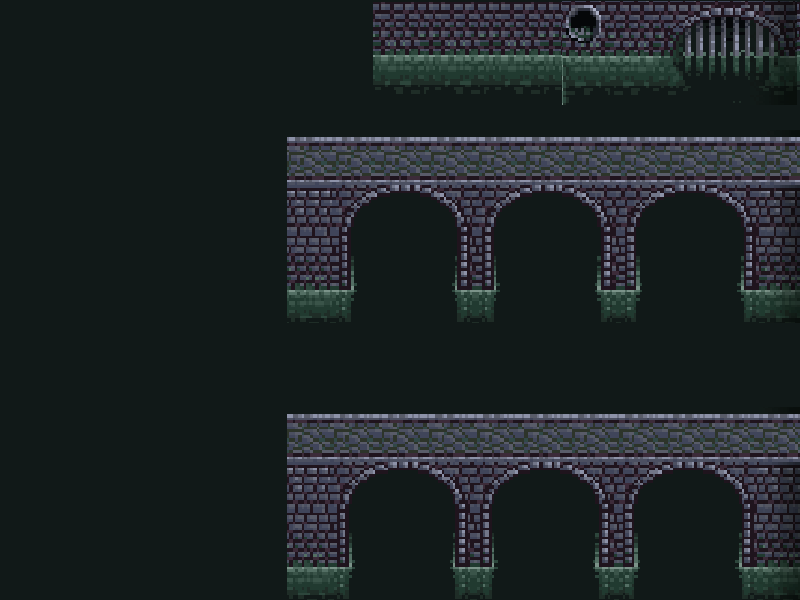
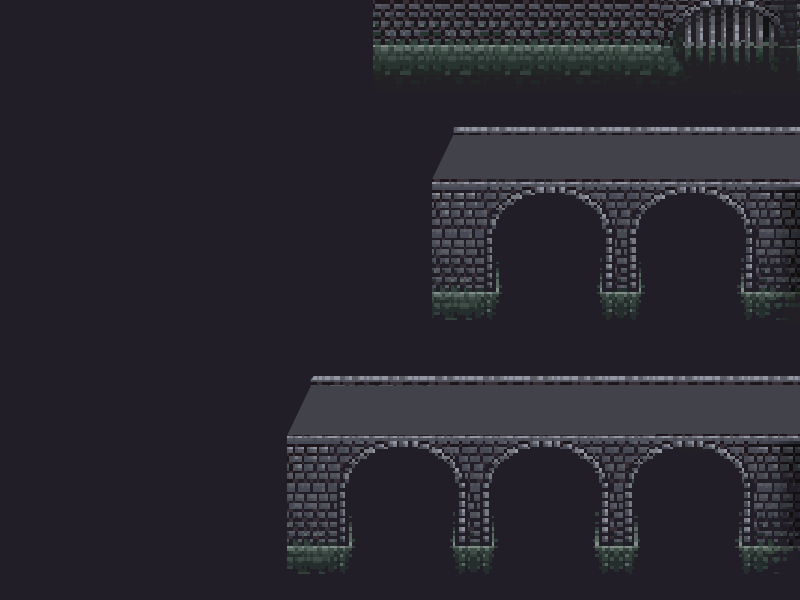
zoom out in ballygamwest.

Changed region(s): [[0.3438, 0.6, 1.0, 1.0], [0.3438, 0.21, 1.0, 0.54], [0.4688, 0.0, 1.0, 0.18]]

diff --git a/src/components/BallyGamBoy/BallyGamWest.js b/src/components/BallyGamBoy/BallyGamWest.js
@@ -202,23 +202,23 @@ useEffect(() => {
 
 
     const mapLayout = [
-      ['a','a','a','a','a','a','a','a','a','a',' ',' ',' ',' ',' ',' ',' ',' ',' ',' ','x','x','a','a','a'],
-      ['a',' ',' ',' ',' ',' ',' ',' ',' ','a',' ',' ',' ',' ',' ',' ',' ',' ',' ',' ',' ',' ','a',' ','a'],
-      ['a',' ',' ',' ',' ',' ',' ',' ',' ','a',' ',' ',' ','a','a','a',' ',' ',' ',' ',' ',' ','a',' ','a'],
-      ['a','a','a','a','a','a',' ',' ',' ','a',' ',' ',' ','a','a','a','a','a','a','a','t','a',' ',' ','a'],
-      ['x',' ',' ',' ',' ','a',' ',' ',' ','a','a','a',' ','a',' ',' ',' ',' ',' ','a',' ','a',' ',' ','a'],
-      ['x',' ',' ',' ',' ','a',' ',' ',' ',' ',' ','a',' ','a','a','a','a',' ',' ','a',' ','a',' ',' ','a'],
-      ['a','a','a','a',' ','a',' ',' ',' ',' ',' ','a',' ','a',' ',' ',' ','a',' ','a',' ','a',' ',' ','a'],
-      ['a',' ',' ','a',' ','a',' ',' ','a','a','a','a',' ','a',' ',' ',' ','a','a','a',' ','a',' ',' ','a'],
-      ['a',' ',' ','a',' ','a',' ','a',' ',' ',' ',' ',' ','a',' ',' ',' ',' ',' ',' ',' ','a',' ',' ','a'],
-      ['a',' ',' ','a',' ','a','a','a',' ',' ',' ',' ',' ','a',' ',' ',' ',' ',' ',' ',' ','a',' ',' ','a'],
-      ['a',' ',' ','a',' ',' ',' ','a','a','a','a','a','a','a',' ',' ',' ','a','a','a','a','a',' ',' ','a'],
-      ['a','a','a','a',' ',' ',' ',' ','a','a','j','a','a','a',' ',' ',' ','a',' ',' ',' ',' ',' ',' ','a'],
-      ['x',' ',' ',' ',' ',' ',' ',' ',' ',' ',' ',' ',' ',' ',' ',' ',' ','a',' ',' ',' ',' ',' ',' ','a'],
-      ['x',' ',' ',' ',' ',' ',' ',' ',' ',' ',' ',' ',' ',' ',' ',' ',' ','a',' ',' ',' ',' ',' ',' ','a'],
-      ['a','a','a',' ',' ',' ',' ',' ',' ','g','g','g','g','g','g',' ',' ','a',' ',' ',' ',' ',' ',' ','a'],
-      ['a',' ','a','a','a','a','a','a','d',' ',' ',' ',' ','g','g',' ',' ','a','a','a','a','a','a','a','a'],
-      ['a',' ',' ',' ',' ',' ',' ',' ','d',' ',' ',' ',' ','g',' ',' ',' ',' ','k','e',' ',' ',' ',' ','x'],
+      ['a',' ',' ',' ',' ',' ',' ',' ',' ',' ',' ',' ',' ',' ',' ',' ',' ',' ',' ',' ',' ',' ',' ',' ',' '],
+      ['a',' ',' ',' ',' ',' ',' ',' ',' ',' ',' ',' ',' ',' ',' ',' ',' ',' ',' ',' ',' ',' ',' ',' ',' '],
+      ['a',' ',' ',' ',' ',' ',' ',' ',' ',' ',' ',' ',' ',' ',' ',' ',' ',' ',' ',' ',' ',' ',' ',' ',' '],
+      ['a',' ',' ',' ',' ',' ',' ',' ',' ',' ',' ',' ',' ',' ',' ',' ',' ',' ',' ',' ',' ',' ',' ',' ',' '],
+      ['x',' ',' ',' ',' ',' ',' ',' ',' ',' ',' ',' ',' ',' ',' ',' ',' ',' ',' ',' ',' ',' ',' ',' ',' '],
+      ['x',' ',' ',' ',' ',' ',' ',' ',' ',' ',' ',' ',' ',' ',' ',' ',' ',' ',' ',' ',' ',' ',' ',' ',' '],
+      ['a',' ',' ',' ',' ',' ',' ',' ',' ',' ',' ',' ',' ',' ',' ',' ',' ',' ',' ',' ',' ',' ',' ',' ',' '],
+      ['a',' ',' ',' ',' ',' ',' ',' ',' ',' ',' ',' ',' ',' ',' ',' ',' ',' ',' ',' ',' ',' ',' ',' ',' '],
+      ['a',' ',' ',' ',' ',' ',' ',' ',' ',' ',' ',' ',' ',' ',' ',' ',' ',' ',' ',' ',' ',' ',' ',' ',' '],
+      ['a',' ',' ',' ',' ',' ',' ',' ',' ',' ',' ',' ',' ',' ',' ',' ',' ',' ',' ',' ',' ',' ',' ',' ',' '],
+      ['a',' ',' ',' ',' ',' ',' ',' ',' ',' ',' ',' ',' ',' ',' ',' ',' ',' ',' ',' ',' ',' ',' ',' ',' '],
+      ['a',' ',' ',' ',' ',' ',' ',' ',' ',' ',' ',' ',' ',' ',' ',' ',' ',' ',' ',' ',' ',' ',' ',' ',' '],
+      ['x',' ',' ',' ',' ',' ',' ',' ',' ',' ',' ',' ',' ',' ',' ',' ',' ',' ',' ',' ',' ',' ',' ',' ',' '],
+      ['x',' ',' ',' ',' ',' ',' ',' ',' ',' ',' ',' ',' ',' ',' ',' ',' ',' ',' ',' ',' ',' ',' ',' ',' '],
+      ['a',' ',' ',' ',' ',' ',' ',' ',' ',' ',' ',' ',' ',' ',' ',' ',' ',' ',' ',' ',' ',' ',' ',' ',' '],
+      ['a',' ',' ',' ',' ',' ',' ',' ',' ',' ',' ',' ',' ',' ',' ',' ',' ',' ',' ',' ',' ',' ',' ',' ',' '],
+      ['a',' ',' ',' ',' ',' ',' ',' ',' ',' ',' ',' ',' ',' ',' ',' ',' ',' ',' ',' ',' ',' ',' ',' ',' '],
       ['a','a','a','a','a','a','a','a','a','a','a','a','a','a','a','a','a','a','a','a','a','a','a','a','a']   
   
   ];    
@@ -295,8 +295,8 @@ useEffect(() => {
     backgroundRef.current = this.add.tileSprite(0, 0, bgWidth, bgHeight, 'background');
     backgroundRef.current.setOrigin(0, 0);
   // Specify starting column and row
-const startColumn = 20; // Horizontal position on the grid (1-25)
-const startRow = 16; // Vertical position on the grid (1-18)
+const startColumn = 23; // Horizontal position on the grid (1-25)
+const startRow = 12; // Vertical position on the grid (1-18)
 
 // Calculate the player's starting coordinates
 const playerStartX = startColumn * tileSize + tileSize / 2;
@@ -383,25 +383,56 @@ const playerStartY = startRow * tileSize + tileSize / 2;
   
   
   // Add and po/sition buttons
-  this.buttonMiddle = this.add.sprite(0, 0, 'button-middle').setInteractive().setDepth(23).setScrollFactor(0);
+  this.buttonMiddle = this.add.sprite(0, 0, 'button-middle').setInteractive().setDepth(23).setScrollFactor(0).setAlpha(0);
   gameRef.current.buttonMiddle = this.buttonMiddle; // Store reference for later use
     this.buttonMiddle.on('pointerdown', () =>{ handleMiddleButtonClick(this)
   this.buttonMiddle.setTexture('button-middle-lit'); // Swap to pressed texture
 
     });
 
-    this.buttonLeft = this.add.sprite(0, 0, 'button-left').setInteractive().setDepth(22).setScrollFactor(0);
-    this.buttonDown = this.add.sprite(0, 0, 'button-down').setInteractive().setDepth(22).setScrollFactor(0);
-    this.buttonRight = this.add.sprite(0, 0, 'button-right').setInteractive().setDepth(22).setScrollFactor(0);
-    this.buttonUp = this.add.sprite(0, 0, 'button-up').setInteractive().setDepth(22).setScrollFactor(0);
+    this.buttonLeft = this.add.sprite(0, 0, 'button-left').setInteractive().setDepth(22).setScrollFactor(0).setAlpha(0);
+    this.buttonDown = this.add.sprite(0, 0, 'button-down').setInteractive().setDepth(22).setScrollFactor(0).setAlpha(0);
+    this.buttonRight = this.add.sprite(0, 0, 'button-right').setInteractive().setDepth(22).setScrollFactor(0).setAlpha(0);
+    this.buttonUp = this.add.sprite(0, 0, 'button-up').setInteractive().setDepth(22).setScrollFactor(0).setAlpha(0);
   
     // Set up the camera
-    this.cameras.main.setZoom(2); // Zoom in 2x
-    this.cameras.main.startFollow(this.player, true); // Follow the player
-  
+    this.cameras.main.setZoom(2); 
+    // this.cameras.main.ignore([this.buttonLeft,this.buttonRight,this.buttonDown,this.buttonUp,this.buttonMiddle])
     // Set camera bounds to the size of the map
     this.cameras.main.setBounds(0, 0, bgWidth, bgHeight);
+   
+
+// Initially set the main camera to zoom level 2
+this.cameras.main.setZoom(2);
+this.cameras.main.startFollow(this.player, true,0.1,0.1); // Follow the player
+
+// Transition the camera zoom from 2 to 1 over 2 seconds
+this.tweens.add({
+    targets: this.cameras.main,
+    zoom: 1,
+    duration: 3000, // 2 seconds
+    ease: 'Cubic.easeIn',
+    onComplete: () => {
   
+        // After the zoom transition, fade in the directional pad elements
+        this.tweens.add({
+            targets: [this.buttonDown, this.buttonLeft, this.buttonMiddle, this.buttonRight, this.buttonUp], // All directional buttons
+            alpha: { from: 0, to: 1 },
+            duration: 1500, // 1.5 seconds fade-in
+            ease: 'Linear',
+
+            onStart: () => {
+
+                // Make sure buttons are initially invisible and only fade in after the zoom
+                [this.buttonDown, this.buttonLeft, this.buttonMiddle, this.buttonRight, this.buttonUp].forEach(button => {
+                    button.setAlpha(0).setVisible(true);
+                });
+            }
+        });
+    }
+});
+
+
     // Update button positions initially
     updateButtonPositions(this);
   
@@ -469,7 +500,7 @@ this.buttonDown.on('pointerup', () => {
     this.translucentBg = this.add.tileSprite(this.cameras.main.width / 2, this.cameras.main.height / 2, bgWidth, bgHeight, 'translucentBg').setScale(3);
      
 // Feather icon in the bottom left corner
-this.featherIcon = this.add.sprite(220, 230, 'featherIcon').setOrigin(0).setScale(0.3).setAlpha(1).setInteractive().setDepth(999).setVisible(false).setScrollFactor(0) ; // Make the sprite interactive
+this.featherIcon = this.add.sprite(120, 230, 'featherIcon').setOrigin(0).setScale(0.6).setAlpha(1).setInteractive().setDepth(999).setVisible(false).setScrollFactor(0) ; // Make the sprite interactive
     //  this.translucentBg = this.add.sprite(800, this.cameras.main.height / 2, 'translucentBg');
      this.translucentBg.setVisible(false); // Initially hidden
     this.translucentBg.setDepth(9).setAlpha(0.4);
@@ -1011,20 +1042,20 @@ this.isMoving = true;
 
 function updateButtonPositions(scene) {
   const padding = 20;
-  const buttonSize = 50;
+  const buttonSize = 100;
   const screenWidth = scene.scale.width;
   const screenHeight = scene.scale.height;
 
-  const buttonX = screenWidth - padding - buttonSize-200;
-  const buttonY = screenHeight - padding - buttonSize-100;
+  const buttonX = screenWidth - padding - buttonSize-50;
+  const buttonY = screenHeight - padding - buttonSize;
 
 
   // Update positions
-  scene.buttonMiddle.setPosition(buttonX, buttonY).setScale(0.5);
-  scene.buttonLeft.setPosition(buttonX - buttonSize / 2, buttonY).setScale(0.5);
-  scene.buttonDown.setPosition(buttonX, buttonY + buttonSize / 2).setScale(0.5);
-  scene.buttonRight.setPosition(buttonX + buttonSize / 2, buttonY).setScale(0.5);
-  scene.buttonUp.setPosition(buttonX, buttonY - buttonSize / 2).setScale(0.5);
+  scene.buttonMiddle.setPosition(buttonX, buttonY).setScale(1);
+  scene.buttonLeft.setPosition(buttonX - buttonSize / 2, buttonY).setScale(1);
+  scene.buttonDown.setPosition(buttonX, buttonY + buttonSize / 2).setScale(1);
+  scene.buttonRight.setPosition(buttonX + buttonSize / 2, buttonY).setScale(1);
+  scene.buttonUp.setPosition(buttonX, buttonY - buttonSize / 2).setScale(1);
 
 }
 
